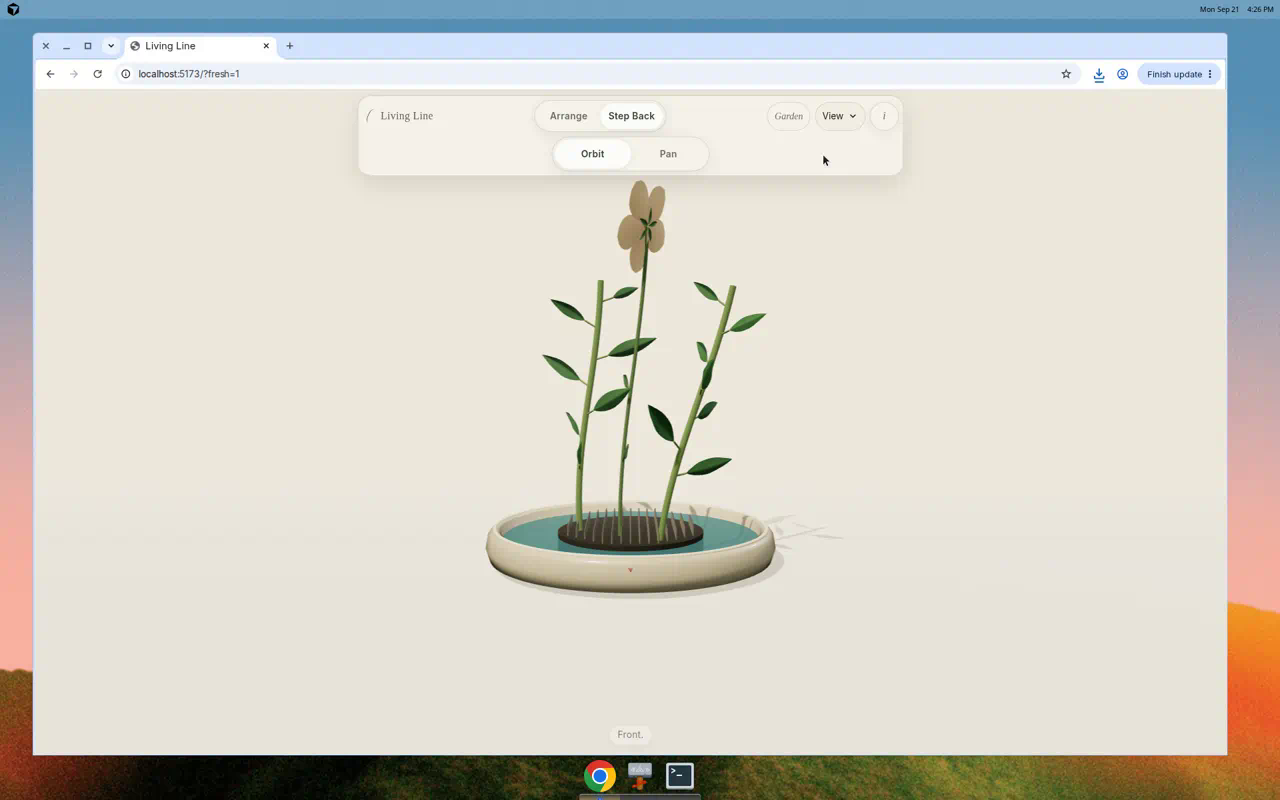
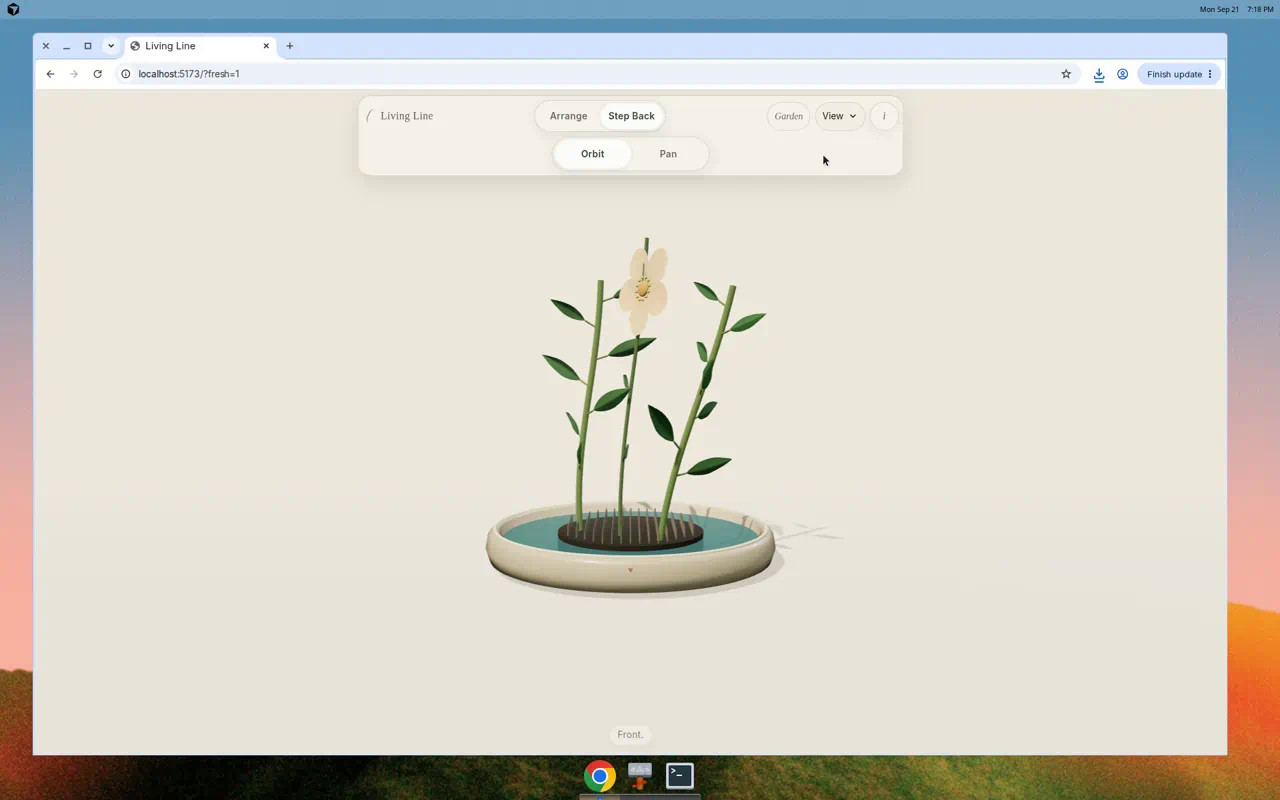
Document single-flower facing limitation

Changed region(s): [[0.4688, 0.2188, 0.5312, 0.4062]]

diff --git a/docs/development/COMPOSITION_EXAMPLES_round-2.md b/docs/development/COMPOSITION_EXAMPLES_round-2.md
@@ -1,17 +1,20 @@
 # Optional composition examples — round 2
 
 These are two original, optional arrangements made from the four-material player
-build at `6c6abd61919754976d64f1a11d590c059056717e`.
+build after PR #19, on merged main `5b6536704f89e105181158891e4ad27537bf1a22`.
 
 - **Bare-branch lines:** bare branches lead a sparse, asymmetrical composition,
   using their crossing lines and the surrounding open space as the main study.
-- **Single-flower rhythm:** a single flower leads the arrangement with its face
-  turned toward the viewer, while two leafy cuttings establish a measured leaf
-  rhythm around it.
+- **Single-flower rhythm:** a single flower leads the arrangement with a
+  player-Aim-adjusted face toward canonical Front, while two leafy cuttings
+  establish a measured leaf rhythm around it. The face remains unresolved from
+  the canonical Three-quarter view: existing Aim changes the pedicel direction
+  but could not show the open center clearly in both views.
 
 ## Opening and importing
 
-To use these backups from this exact SHA, build the standalone player locally:
+To use these backups from this merged main / PR #19 integration head, build the
+standalone player locally:
 
 ```bash
 npm ci
@@ -29,6 +32,10 @@ they are not auto-imported into the app. Screenshots are view evidence only:
 `artifacts/<arrangement>-front.png` and
 `artifacts/<arrangement>-three-quarter.png`.
 
-Verification was performed in the browser from the exact SHA: each backup was
-imported into a fresh Garden and its card was opened and rendered. No physical
+The single-flower backup was imported into a fresh Garden and rendered. One
+ordinary Shape/Aim drag on the upper flowering material changed the persisted
+pedicel geometry and turned the open face toward Front. Two further Aim attempts
+from Three-quarter made the flower visible but edge-on, so the two-view facing
+goal is explicitly unresolved rather than claimed as complete. The
+`single-flower-led-aim-attempt-*.png` files show that limitation. No physical
 phone testing was run.

diff --git a/artifacts/README.md b/artifacts/README.md
@@ -3,8 +3,8 @@
 ## Date
 September 21, 2026
 
-## Commit
-6c6abd61919754976d64f1a11d590c059056717e
+## Source
+PR #19 merged into main at `5b6536704f89e105181158891e4ad27537bf1a22`
 
 ## Overview
 Created two original floral arrangements using the Living Line web application running at http://localhost:5173/. All arrangements were created using the normal UI controls without any test hooks, console injection, or hand-authored graph data.
@@ -28,12 +28,18 @@ Created two original floral arrangements using the Living Line web application r
 - 1× Single flower (cream-colored bloom as focal point)
 - 2× Leafy shoot (supporting rhythm)
 
-**Design approach:** Single flower as clear visual lead facing forward, with leafy shoots creating rhythm and supporting the flower.
+**Design approach:** Single flower as clear visual lead, with its open face
+turned toward canonical Front by one ordinary player Aim operation; leafy shoots
+create rhythm and support the flower. Existing Aim could not keep the open
+center clear in both Front and Three-quarter, so this two-view facing goal
+remains unresolved.
 
 **Files created:**
 - `single-flower-led-front.png` - Front view screenshot (PNG, 1280×800)
 - `single-flower-led-three-quarter.png` - Three-quarter view screenshot (PNG, 1280×800)
 - `single-flower-led-garden.json` - Garden backup (26K)
+- `single-flower-led-aim-attempt-front.png` - Aim limitation evidence
+- `single-flower-led-aim-attempt-three-quarter.png` - Aim limitation evidence
 
 ## Verification
 Both Garden backups were verified functional:
@@ -41,6 +47,8 @@ Both Garden backups were verified functional:
 - Opened Garden dialog showing both saved arrangements
 - Clicked on arrangement card to load it
 - Confirmed arrangement rendered correctly with all cuttings in proper positions
+- Imported the Aim-adjusted single-flower backup separately; Front shows the
+  open center, while Three-quarter remains edge-on after the permitted Aim attempts
 
 ## Technical Notes
 - No source code modifications made
